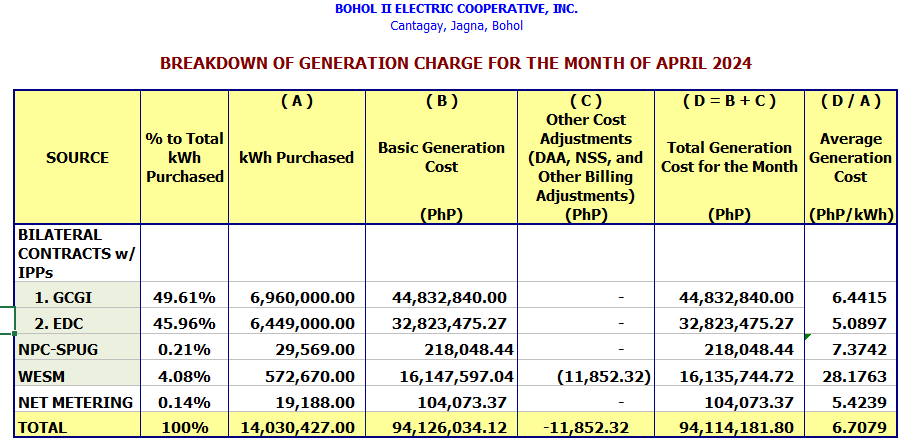
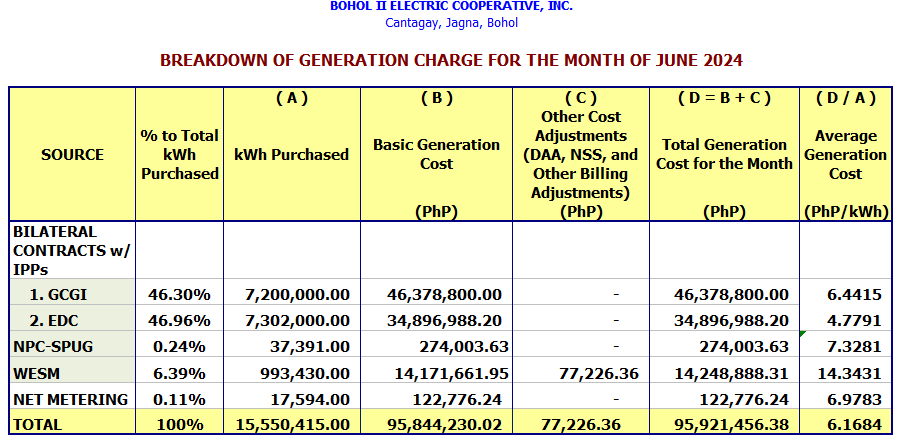
revert bod image & modified generation rates july 2024

Changed region(s): [[0.0, 0.1166, 0.9879, 0.991], [0.3396, 0.0, 0.6483, 0.0874]]

diff --git a/src/components/GenRates.jsx b/src/components/GenRates.jsx
@@ -6,7 +6,7 @@ const img = [
   "assets/rates/gr2.png",
 ];
 
-const months = ["May", "April", "March"];
+const months = ["July", "June", "May"];
 
 const Rates = () => {
   return (
